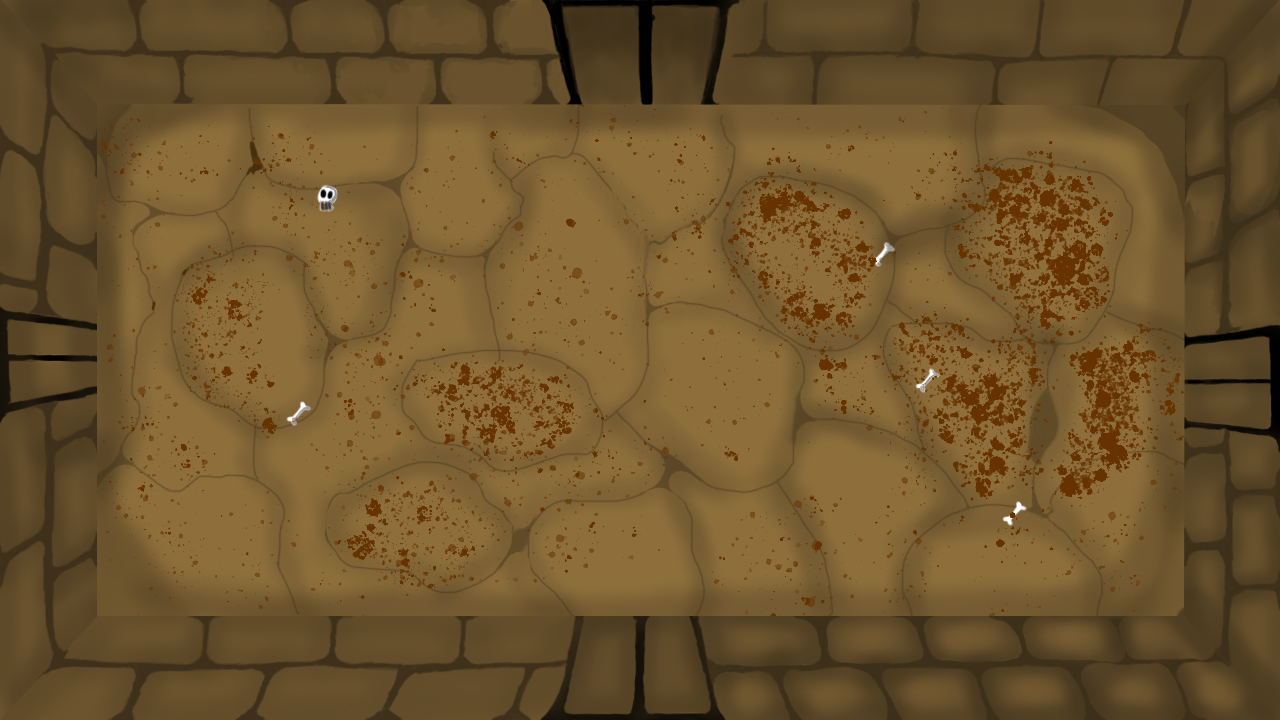
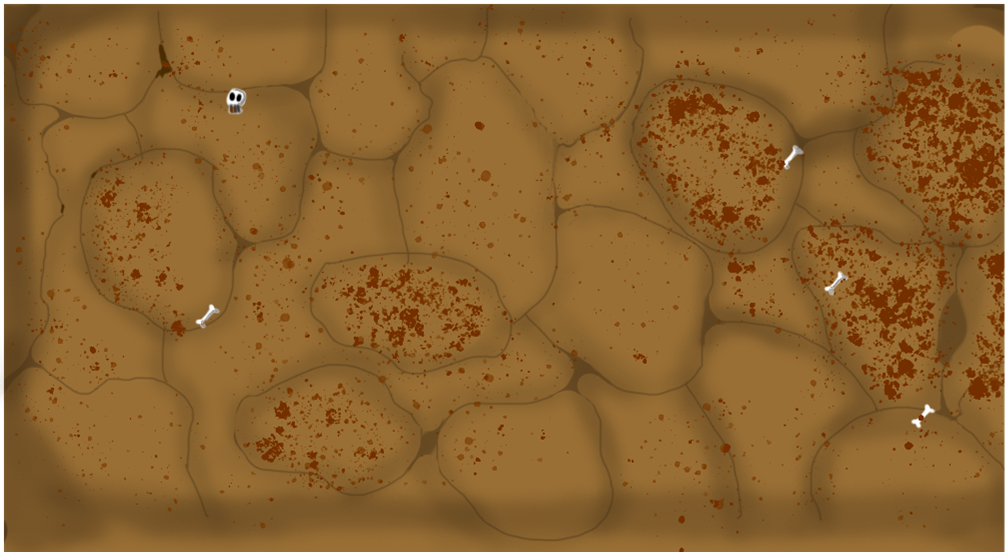
Update

diff --git a/GameController/GameController.cpp b/GameController/GameController.cpp
@@ -16,25 +16,25 @@ void GameController::Action::Move(Player^ player, int dir[2])
     dir[1] = 0;
     dir[0] = 0;
     if (Keyboard::isKeyPressed(Keyboard::W)) {
-        if (player->Y > 120) {
+        if (player->Y > Border) {
             player->Y -= player->Speed;
         }
         dir[1] -= 1;
     }
     if (Keyboard::isKeyPressed(Keyboard::S)) {
-        if (player->Y < Heigth) {
+        if (player->Y < Heigth-50) {
             player->Y += player->Speed;
         }
         dir[1] += 1;
     }
     if (Keyboard::isKeyPressed(Keyboard::D)) {
-        if (player->X < 140 + Width) {
+        if (player->X < Border + Width-40) {
             player->X += player->Speed;
         }
         dir[0] += 1;
     }
     if (Keyboard::isKeyPressed(Keyboard::A)) {
-        if (player->X > 140) {
+        if (player->X > Border) {
             player->X -= player->Speed;
         }
         dir[0] -= 1;
@@ -92,7 +92,7 @@ void GameController::Action::Hit(sf::Sprite &chain, sf::Clock &time, int *chainT
 void GameController::Action::MinionMove(Minion^ minion)
 {
     if (minion->Wall == 0) {
-        if (minion->X >= 140) {
+        if (minion->X >= Border) {
             minion->X-=minion->Speed;
         }
         else {
@@ -100,7 +100,7 @@ void GameController::Action::MinionMove(Minion^ minion)
         }
     }
     else{
-        if (minion->X < 140+Width) {
+        if (minion->X < Border+Width-40) {
             minion->X += minion->Speed;
         }
         else {
@@ -108,7 +108,7 @@ void GameController::Action::MinionMove(Minion^ minion)
         }
     }
     if (minion->Wally == 0) {
-        if (minion->Y >= 140) {
+        if (minion->Y >= Border) {
             minion->Y -= minion->Speed;
         }
         else {
@@ -116,7 +116,7 @@ void GameController::Action::MinionMove(Minion^ minion)
         }
     }
     else {
-        if (minion->Y < Heigth) {
+        if (minion->Y < Heigth-50) {
             minion->Y += minion->Speed;
         }
         else {
@@ -198,25 +198,25 @@ void GameController::Interaction::InizialiceRoom(Room^ Room)
     Room->LTrap->Clear();
     Room->LMinion->Clear();
     for (int i = 0; i < 10; i++) {
-        Trap^ trp = gcnew Trap((float)(rand() % Width + 140), (float)((rand() % (Heigth-120))+120), 40, 20);
+        Trap^ trp = gcnew Trap((float)(rand() % Width) + 140, (float)(rand() % (Heigth-50))+Border, 40, 20);
         Room->LTrap->Add(trp);
     }
     for (int i = 0; i < 5; i++) {
-        Minion^ minion = gcnew Minion(10, (float)(rand() % Width + 140), (float)((rand() % (Heigth - 120)) + 120), 40, 20, 0, 1);
+        Minion^ minion = gcnew Minion(10, (float)(rand() % Width) + 140, (float)(rand() % (Heigth - 50)) + Border, 40, 20, 0, 1);
         Room->LMinion->Add(minion);
     }
     for (int i = 0; i < 5; i++) {
         int p = rand() % 3;
         if (p == 0) {
-            Health^ health = gcnew Health((float)(rand() % Width + 140), (float)((rand() % (Heigth - 120)) + 120), p);
+            Health^ health = gcnew Health((float)(rand() % Width) + 140, (float)(rand() % (Heigth - 50)) + Border, p);
             Room->LItem->Add(health);
         }
         else if (p == 1) {
-            Velocity^ velocity = gcnew Velocity((float)(rand() % Width + 140), (float)((rand() % (Heigth - 120)) + 120), p);
+            Velocity^ velocity = gcnew Velocity((float)(rand() % Width) + 140, (float)(rand() % (Heigth - 50)) + Border, p);
             Room->LItem->Add(velocity);
         }
         else if (p == 2) {
-            Attack^ attack = gcnew Attack((float)(rand() % Width + 140), (float)((rand() % (Heigth - 120)) + 120), p);
+            Attack^ attack = gcnew Attack((float)(rand() % Width) + 140, (float)(rand() % (Heigth - 50)) + Border, p);
             Room->LItem->Add(attack);
         }
     }
@@ -247,7 +247,7 @@ void GameController::Interaction::ChangeRoom(Floor^ Level, Player^ player,int *s
 {
     RectangleShape Door(Vector2f(20, 100));
     Door.setFillColor(Color::Black);
-    Door.setPosition(1100, 335);
+    Door.setPosition(Width+Border-40, 335);
     if (RoomCleared(Level->LRoom[player->CurrentRoom])) {
         if (player->CurrentRoom < 9) {
             Door.setFillColor(Color::Red);

diff --git a/GameView/Main.cpp b/GameView/Main.cpp
@@ -10,7 +10,7 @@ using namespace GameModel;
 using namespace GameController;
 using namespace sf;
 unsigned int Width_W = 1280, Heigth_W = 720;
-unsigned int Width = 960, Heigth = 550;
+unsigned int Width = 1100, Heigth = 650,Border;
 //DESTINO DEL SONIDO
 
 RenderWindow window(VideoMode(Width_W, Heigth_W), "Muscuy");
@@ -303,18 +303,19 @@ int main()
     W[1].setTexture(T1);
     W[2].setTexture(T2);
     W[3].setTexture(T2);
-    W[0].setScale(1.58, 1);
+    Border = (Width_W - Width) / 2;
+    W[0].setScale((float)(Border+5)/95, 1);
     W[0].setPosition(0, 0);
-    W[1].setPosition(1150, 0);
-    W[1].setScale(1.58, 1);
-    W[2].setPosition(150, 0);
-    W[2].setScale(0.78125, 1.18);
-    W[3].setPosition(150, 550);
-    W[3].setScale(0.78125, 1.8);
-    T_Map.loadFromFile("Imagenes//escenario_v2.png");
+    W[1].setPosition((float)Width+Border, 0);
+    W[1].setScale((float)(Border + 5) / 95, 1);
+    W[2].setPosition((float)Border, 0);
+    W[2].setScale((float)(Width+5)/1280, (float)(Border+5)/102);
+    W[3].setPosition((float)(Border), Heigth);
+    W[3].setScale((float)(Width + 5) / 1280, (float)(Border+5)/ 102);
+    T_Map.loadFromFile("Imagenes/Mapa.png");
     Map.setTexture(T_Map);
-    Map.setPosition(145, 115);
-    Map.setScale(1, 0.9);
+    Map.setPosition(Border, Border);
+    Map.setScale((float)Width/1007, (float)(Heigth-Border)/552);
     int flag = 0;
     Vector2i M;
     //texto;
@@ -350,7 +351,7 @@ int main()
     A4.text.setString(L"▼");
     RectangleShape Door(Vector2f(20, 100));
     Door.setFillColor(Color::Black);
-    Door.setPosition(1150, 335);
+    Door.setPosition(Width+Border, 335);
     int Tutorial[8];
     for (int p = 0; p < 8; p++) {
         Tutorial[p] = 1;
@@ -395,12 +396,6 @@ int main()
     chain.setTexture(tchain);
     chain.setScale((float)0.05, (float)0.05);
     //
-    
-    /*SoundBuffer Buffer;
-    Sound Sonido;
-    Buffer.loadFromFile("SoundTrack/fondo.wav");
-    Sonido.setBuffer(Buffer);
-    Sonido.play();*/
     Sonido.play();
     while (window.isOpen())
     {
@@ -702,11 +697,11 @@ int main()
                     ListItem[u] = H;
                     ListItem[u].SetPosition(floor->LRoom[personaje->CurrentRoom]->LItem[u]->X, floor->LRoom[personaje->CurrentRoom]->LItem[u]->Y);
                 }
-                else if (floor->LRoom[0]->LItem[u]->Type == 2) {
+                else if (floor->LRoom[personaje->CurrentRoom]->LItem[u]->Type == 2) {
                     ListItem[u] = D;
                     ListItem[u].SetPosition(floor->LRoom[personaje->CurrentRoom]->LItem[u]->X, floor->LRoom[personaje->CurrentRoom]->LItem[u]->Y);
                 }
-                else if (floor->LRoom[0]->LItem[u]->Type == 1) {
+                else if (floor->LRoom[personaje->CurrentRoom]->LItem[u]->Type == 1) {
                     ListItem[u] = V;
                     ListItem[u].SetPosition(floor->LRoom[personaje->CurrentRoom]->LItem[u]->X, floor->LRoom[personaje->CurrentRoom]->LItem[u]->Y);
                 }

diff --git a/GameController/GameController.h b/GameController/GameController.h
@@ -7,7 +7,7 @@ using namespace System;
 using namespace GameModel;
 using namespace System::Collections::Generic;
 //using namespace System::Data::SqlClient;
-unsigned int Width = 960, Heigth = 550;
+unsigned int Width = 1100, Heigth = 650,Border=(1280-Width)/2;
 namespace GameController {
 	public ref class Action
 	{
